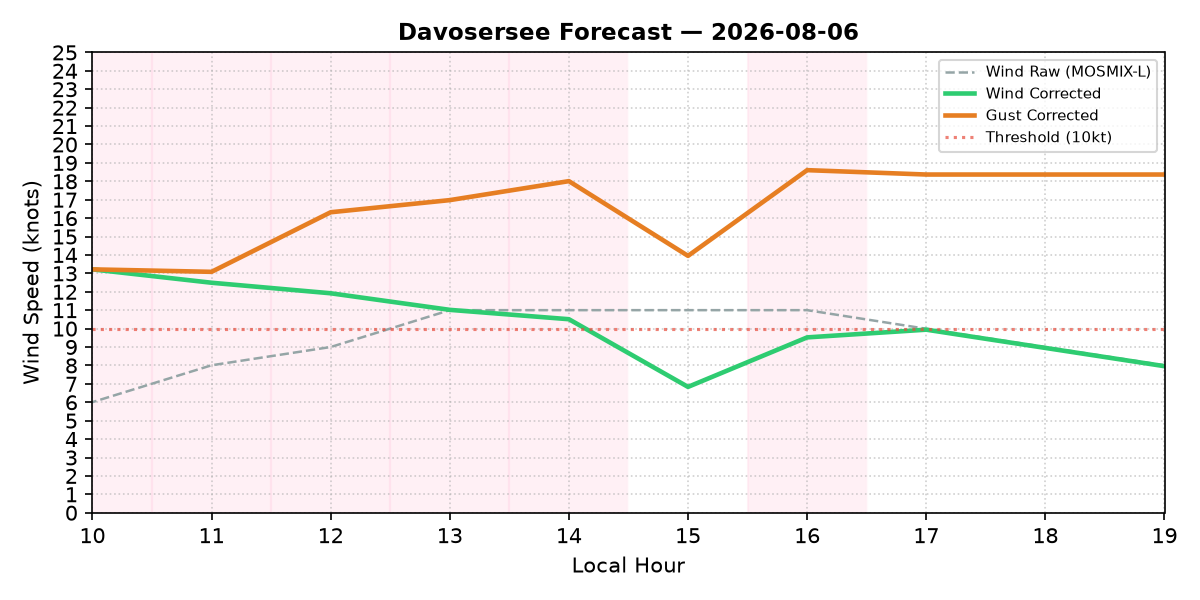
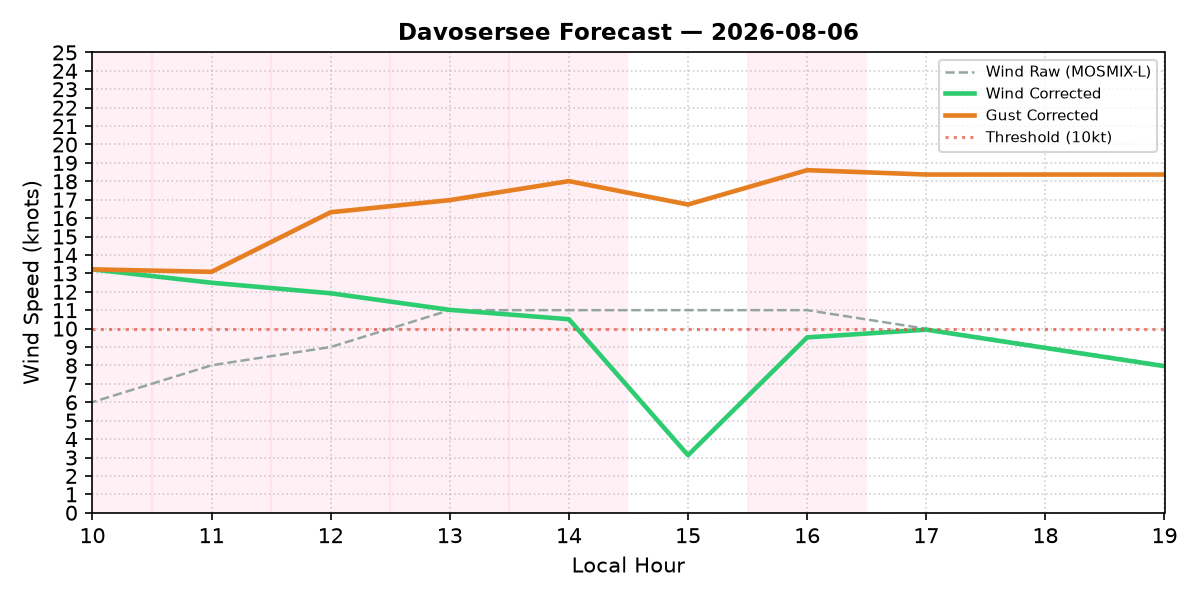
Automated hourly HTML update

diff --git a/index.html b/index.html
@@ -24,7 +24,7 @@
     <div class="header">
         <h1>🏄 Davosersee Wind Forecast by Camille, DWD MOSMIX-L data with corrections</h1>
         <h1>-- experimental, at your own risk, no guarantees! --</h1>
-        <div class="version">Generated: v2.5-json (2026-08-05 16:19:35 UTC)</div>
+        <div class="version">Generated: v2.5-json (2026-08-05 20:47:48 UTC)</div>
     </div>
 
     <div class="day-card">
@@ -163,14 +163,14 @@
                 <tr>
                     <td>15:00</td>
                     <td>11.0</td>
-                    <td><b>6.8</b></td>
-                    <td>14.0</td>
+                    <td><b>3.1</b></td>
+                    <td>16.7</td>
                     <td>NE (34°)</td>
                     <td>19.2</td>
                     <td>50%</td>
                     <td>55%</td>
                     <td>5.2</td>
-                    <td>Foehn + PartlyCloudy + Precip(Other_Precip)</td>
+                    <td>Foehn + PartlyCloudy + Precip(Thunderstorm)</td>
                 </tr>
                 <tr>
                     <td>16:00</td>
